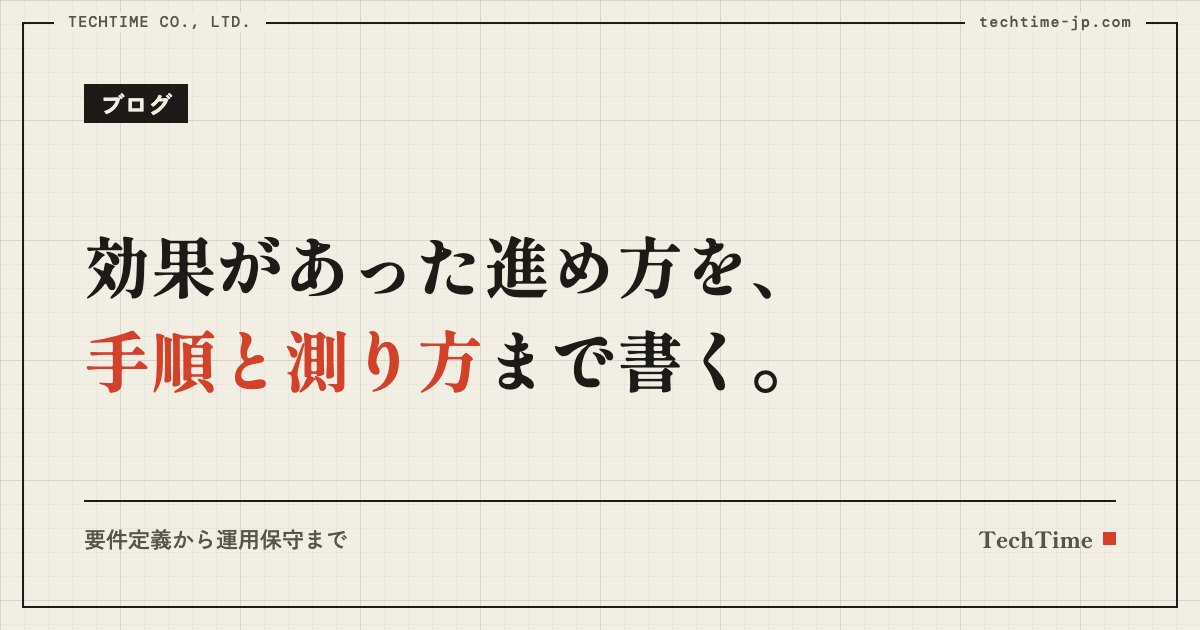
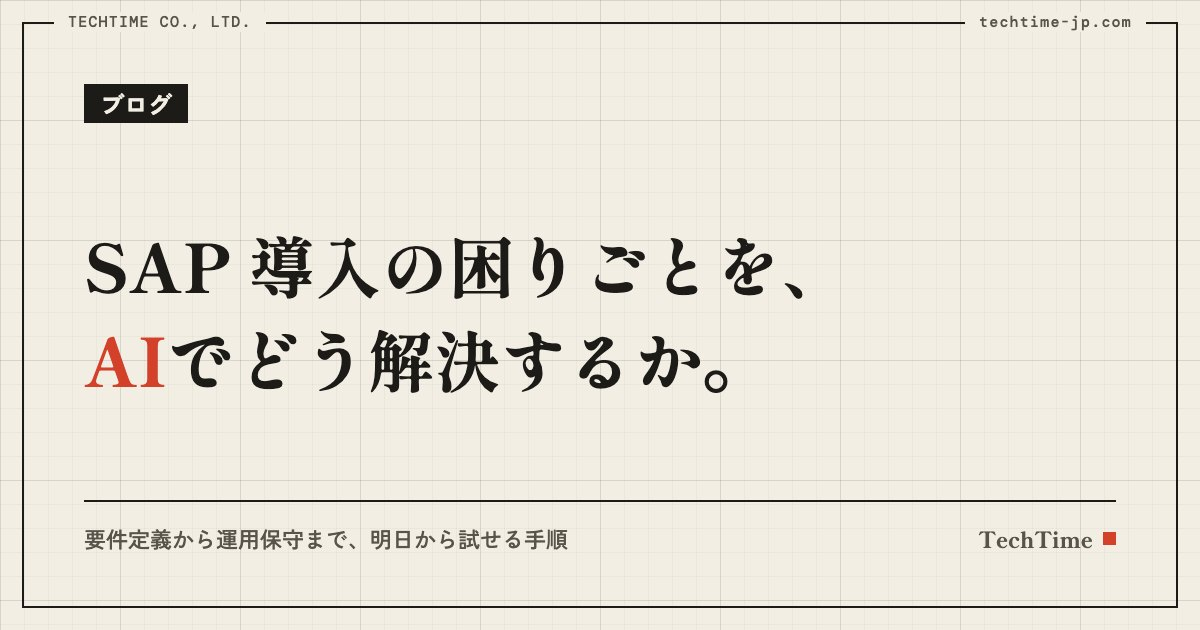
ブログの一覧をカード型に作り替え、見出しを直す
- 見出しを「SAP 導入の困りごとを、AIでどう解決するか。」に変更
- 記事をカードで並べ、各カードに記事の中の図を載せる（tools/make_thumbs.py）
- 探し方を1行の帯（工程・言葉・並び順）にまとめ、困りごとは各カードに添える

Changed region(s): [[0.0617, 0.3619, 0.6783, 0.4825], [0.0617, 0.5127, 0.6475, 0.6333], [0.3083, 0.8444, 0.4933, 0.8746]]

diff --git a/src/data/posts.ts b/src/data/posts.ts
@@ -6,7 +6,7 @@ export type Post = {
   short: string;     // 検索結果に出す短い題（30字以内）
   related: string[]; // 記事の最後に出す関連する記事（slug）
   dek: string;
-  problem: string;   // 読み手の困りごと（「困りごとから探す」に出す）
+  problem: string;   // 読み手の困りごと（一覧のカードの「こんな困りごとに」に出す）
   words: string[];   // 検索で当てる語（題と説明に無い言い方も入れる）
   date: string;
   min: number;

diff --git a/tools/make_thumbs.py b/tools/make_thumbs.py
@@ -1,0 +1,33 @@
+"""ブログの一覧のカードに載せる絵を作る。各記事の中の図を1つ撮って public/images/blog/<slug>.jpg にする。
+開発サーバー（http://localhost:4391）を動かしてから実行する：
+  ~/.venvs/playwright/bin/python tools/make_thumbs.py            … 全記事
+  ~/.venvs/playwright/bin/python tools/make_thumbs.py <slug> …    … 指定の記事だけ
+どの図を使うかは PICK に書く（書かなければ図1）。"""
+import glob, os, re, sys
+from playwright.sync_api import sync_playwright
+ROOT = os.path.dirname(os.path.dirname(os.path.abspath(__file__)))
+OUT = os.path.join(ROOT, "public", "images", "blog"); os.makedirs(OUT, exist_ok=True)
+PICK = {
+    "answer-with-probability": 2,
+    "recheck-add-ons-against-standard": 4,
+    "check-code-against-design": 2,
+    "decide-the-meeting-goal": 4,
+    "ai-runs-integration-tests": 4,
+    "measure-ai-without-counterfactual": 3,
+    "keep-using-ai": 1,
+}
+src = open(os.path.join(ROOT, "src", "data", "posts.ts"), encoding="utf-8").read()
+slugs = sys.argv[1:] or re.findall(r"slug: '([^']+)'", src)
+exe = glob.glob(os.path.expanduser("~/Library/Caches/ms-playwright/chromium-*/chrome-mac-arm64/*.app/Contents/MacOS/*"))[0]
+with sync_playwright() as p:
+    b = p.chromium.launch(executable_path=exe, headless=True)
+    pg = b.new_page(viewport={"width": 1100, "height": 900}, device_scale_factor=1.5)
+    for s in slugs:
+        n = PICK.get(s, 1)
+        pg.goto(f"http://localhost:4391/blog/{s}", wait_until="networkidle")
+        fig = pg.locator(".fig").nth(n - 1)
+        pg.evaluate(f"document.querySelectorAll('.fig')[{n - 1}].scrollIntoView({{block:'center'}})")
+        pg.wait_for_timeout(6500)   # 図の動きが進み、要素がそろった頃に撮る
+        fig.locator(".fig__b").screenshot(path=os.path.join(OUT, f"{s}.jpg"), type="jpeg", quality=82)
+        print("撮った", s, "図", n)
+    b.close()

diff --git a/tools/make_og.py b/tools/make_og.py
@@ -13,7 +13,7 @@ for m in re.finditer(r"\{\s*slug: '([^']+)',\s*no: '([^']+)',\s*cat: '([^']+)',\
 items += [
     dict(file="site.jpg", kicker="SAP の導入と保守への、新しい入り方", no="", title="SAP 導入に、<br><em>AIチーム</em>という選択肢を。", foot="工数ではなく、プロジェクトに残る仕組みを納めます"),
     dict(file="assessment.jpg", kicker="アセスメント", no="", title="SAP 導入のプロジェクトを、<br><em>資料から診断</em>する。", foot="全件を読み、統計で測り、根拠を並べる"),
-    dict(file="blog.jpg", kicker="ブログ", no="", title="効果があった進め方を、<br><em>手順と測り方</em>まで書く。", foot="要件定義から運用保守まで"),
+    dict(file="blog.jpg", kicker="ブログ", no="", title="SAP 導入の困りごとを、<br><em>AI</em>でどう解決するか。", foot="要件定義から運用保守まで、明日から試せる手順"),
     dict(file="contact.jpg", kicker="相談", no="", title="いまの進め方を、<br><em>聞かせてください。</em>", foot="導入の検討中でも、途中でも、稼働したあとでも"),
 ]
 CSS = """
